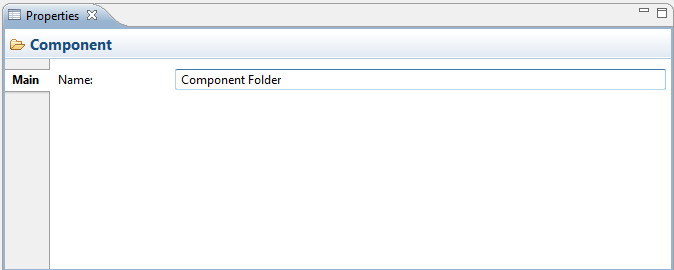
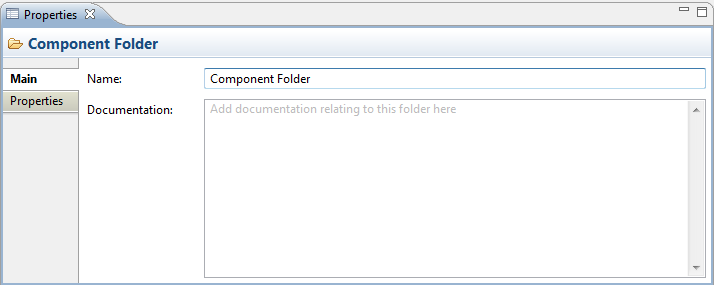
Update Help HTML files in support of Folder Property Section
Folders now have Documentation field and Properties tab

Changed region(s): [[0.0, 0.0, 1.0, 1.0]]

diff --git a/uk.ac.bolton.archimate.help/help/properties_user_properties.html b/uk.ac.bolton.archimate.help/help/properties_user_properties.html
@@ -9,7 +9,7 @@
 <p>User Properties can be created and managed from the &quot;Properties&quot; tab in the <a href="properties_window.html">Properties Window</a>.</p>
 <p>&nbsp;</p>
 <p class="font12"><strong>The Properties Tab</strong></p>
-<p>This tab allows you to add arbitrary User Properties, or attributes, to an Element, Model or View. For example you may wish to add information such as &quot;Cost&quot;, &quot;Location&quot;, &quot;Duration&quot;, &quot;Time&quot;, &quot;Link&quot; and so on. Properties are stored as name/value pairs. Properties with the same name may appear more than once in the model or element and values are free text. If the value of a Property starts with &quot;http://&quot;, &quot;https://&quot; or &quot;ftp://&quot; it will show in blue to denote a hyperlink. Double-clicking on the table row will open the link in a Browser.</p>
+<p>This tab allows you to add arbitrary User Properties, or attributes, to an Element, Model, Folder, or View. For example you may wish to add information such as &quot;Cost&quot;, &quot;Location&quot;, &quot;Duration&quot;, &quot;Time&quot;, &quot;Link&quot; and so on. Properties are stored as name/value pairs. Properties with the same name may appear more than once in the model or element and values are free text. If the value of a Property starts with &quot;http://&quot;, &quot;https://&quot; or &quot;ftp://&quot; it will show in blue to denote a hyperlink. Double-clicking on the table row will open the link in a Browser.</p>
 <p class="caption"><img src="img/properties_user1.png" alt="" width="669" height="247"><br>
   User Properties</p>
 <p><strong>To Add a New User Property entry:</strong></p>

diff --git a/uk.ac.bolton.archimate.help/help/properties_folder.html b/uk.ac.bolton.archimate.help/help/properties_folder.html
@@ -14,9 +14,17 @@
     <td width="20%" valign="top"><strong>Name:</strong></td>
     <td width="80%" valign="top">The name of the Folder - this can only be edited for user-created sub-folders.</td>
   </tr>
+  <tr>
+    <td valign="top"><strong>Documentation:</strong></td>
+    <td valign="top">A space to enter some user documentation  relating to the folder</td>
+  </tr>
 </table>
-<p class="caption"><img src="img/properties_folder.png" width="674" height="270"><br>
+<p class="caption"><img src="img/properties_folder.png" width="714" height="285"><br>
 Editing the &quot;Main&quot; Properties for a Folder</p>
+<p class="boxout"><img src="img/tip.png" width="13" height="18"> In the &quot;Documentation&quot; text control, URLs that start with &quot;http://&quot; &quot;https://&quot; or &quot;ftp://&quot; will show as a hyperlink. Pressing the Ctrl / Command key will change the cursor to a &quot;hand&quot; cursor and you can open the link in a Browser.</p>
+<p>&nbsp;</p>
+<p class="font12"><strong>The Properties Tab</strong></p>
+<p>For more information about creating and managing User Properties see <a href="properties_user_properties.html">User Properties</a>.</p>
 <p>&nbsp;</p>
 </body>
 </html>

diff --git a/uk.ac.bolton.archimate.help/help/properties_element.html b/uk.ac.bolton.archimate.help/help/properties_element.html
@@ -34,8 +34,6 @@ Editing the &quot;Main&quot; Properties for an ArchiMate Element</p>
 <p>&nbsp;</p>
 <p class="font12"><strong>The Properties Tab</strong></p>
 <p>For more information about creating and managing User Properties see <a href="properties_user_properties.html">User Properties</a>.</p>
-<p class="caption"><img src="img/properties_user1.png" width="669" height="247"><br>
-  User Properties</p>
 <p>&nbsp;</p>
 <p class="font12"><strong>The Analysis Tab</strong></p>
 <table width="100%" border="0">
